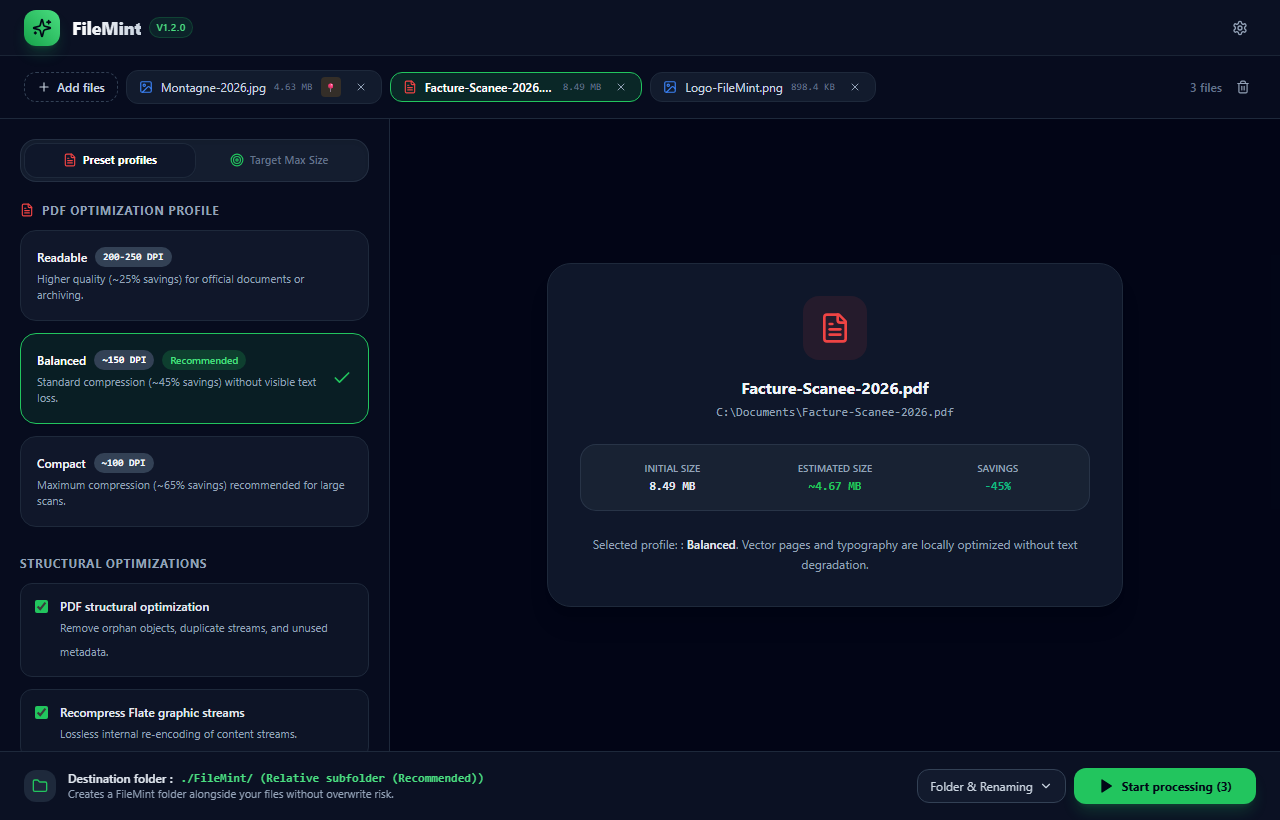
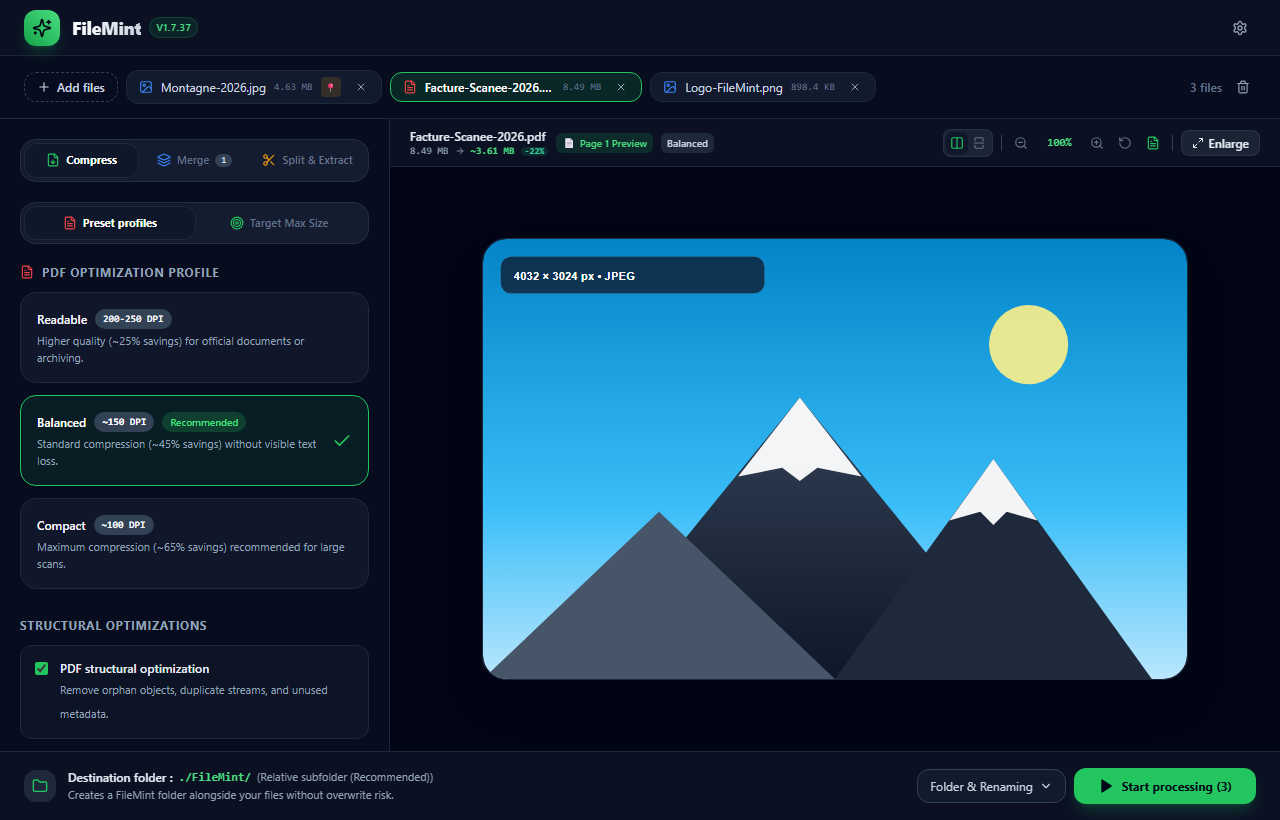
fix(codeql): fix unused assignment alerts, update screenshots and documentation (v1.7.37)

diff --git a/src/App.tsx b/src/App.tsx
@@ -59,7 +59,7 @@ export const App: React.FC = () => {
           }
         })
         .catch((err) => console.warn('Error reading initial CLI files:', err));
-    } else if (typeof window !== 'undefined' && import.meta.env.DEV) {
+    } else if (typeof window !== 'undefined') {
       const params = new URLSearchParams(window.location.search);
       const demo = params.get('demo');
       const langParam = params.get('lang');

diff --git a/src/components/DestinationPicker.tsx b/src/components/DestinationPicker.tsx
@@ -152,8 +152,8 @@ export const DestinationPicker: React.FC = () => {
   const pdfFiles = files.filter((f) => f.fileType === 'pdf');
 
   let canLaunch = false;
-  let launchButtonLabel = `${t.launchBatch} (${files.length})`;
-  let launchButtonIcon = Play;
+  let launchButtonLabel: string;
+  let launchButtonIcon: typeof Play;
 
   if (isPdfActive && pdfToolMode === 'merge') {
     canLaunch = pdfFiles.length >= 2;

diff --git a/README.fr.md b/README.fr.md
@@ -54,16 +54,20 @@
 ## 🚀 Fonctionnalités Clés
 
 ### 🖼 Optimisation & Conversion d'Images
-- **Dimensions & Retouche :** Pixels, pourcentages, limitation maximale (*Max bounds*), rotations (90°/180°/270°), miroirs et noir & blanc.
+- **Dimensions & Géométrie Intelligente :** Pixels, pourcentages, limitation maximale (*Max bounds*) avec synchronisation du ratio, rotations (90°/180°/270°), miroirs et effets de couleur (Niveaux de gris, Sépia, Négatif / Inversé, Noir & Blanc pur seuillé). La détection sémantique reconnaît intelligemment 100% et les dimensions d'origine.
+- **Estimation Empirique en Direct :** Calcul en temps réel par encodage en mémoire sous Rust fournissant une prévision précise du poids (`~413.5 Ko [-58%]`) avec infobulle explicative au survol.
 - **Mode Taille Cible (Ko / Mo max) :** Fixez un plafond strict (200 Ko, 500 Ko, 1 Mo, 2 Mo, 5 Mo, sur-mesure). FileMint détermine la qualité optimale et le sous-échantillonnage Lanczos par dichotomie.
-- **Qualité & Sans perte :** Curseur 10–100, préréglages (Léger, Équilibré, Max), mode lossless (PNG/WebP), ou débrayage complet de la compression.
+- **Qualité & Sans perte :** Curseur 10–100, préréglages rapides (Aucun, Web, Qualité, Léger), mode sans perte (PNG/WebP), ou débrayage complet de la compression pour les conversions bit-à-bit.
+- **Profils Personnalisés (Import / Export) :** Sauvegardez vos propres préréglages, exportez-les au format JSON et importez-les d'une machine à l'autre.
 - **Vie privée & Métadonnées :** Suppression sélective des coordonnées GPS ou nettoyage EXIF intégral.
 - **Formats :** JPEG, PNG (avec transparence), WebP, AVIF, BMP, GIF et TIFF.
 
-### 📄 Compression de Documents PDF
+### 📄 Suite Complète PDF (Compression, Fusion, Découpage)
 - **3 Profils Dédiés :** *Lisible* (~200–250 DPI), *Équilibré* (~150 DPI) et *Compact* (~100 DPI).
 - **Compression par Taille Cible :** Respectez les limites de poids imposées par les portails administratifs et courriels.
-- **Optimisation Structurelle :** Recompression FlateDecode et nettoyage d'objets sans altérer les textes sélectionnables ni les liens.
+- **Optimisation Structurelle :** Recompression FlateDecode et nettoyage d'objets sans altérer les textes sélectionnables ni les liens vectoriels.
+- **Fusion de PDF :** Combinez plusieurs documents PDF en un fichier unique ordonné avec nommage personnalisé et décompte des pages en direct.
+- **Découpage & Extraction de Pages :** Grille visuelle de vignettes des pages, sélection par plages (ex: `1, 3-5`), extraction dans un PDF dédié ou découpage de toutes les pages en fichiers distincts.
 
 ### 📂 Dossiers de Surveillance Automatique
 - **Surveillance Multi-Dossiers :** Configurez autant de dossiers surveillés que vous le souhaitez, avec exécution asynchrone indépendante en arrière-plan.

diff --git a/README.md b/README.md
@@ -54,16 +54,20 @@
 ## 🚀 Key Features
 
 ### 🖼 Image Optimization & Conversion
-- **Smart Sizing & Effects:** Pixel dimensions, percentages, max bounds, rotation (90°/180°/270°), flips, and color effects (Grayscale, Sepia, Invert, Pure B&W thresholding).
+- **Smart Sizing & Semantic Geometry:** Pixel dimensions, percentages, max bounds with aspect ratio sync, rotations (90°/180°/270°), flips, and color effects (Grayscale, Sepia, Invert, Pure B&W thresholding). Intelligent semantic detection recognizes 100% and matching original dimensions as non-resizing.
+- **Live Empirical Weight Estimation:** Real-time in-memory encoding in Rust provides responsive, empirical size forecasts (`~413.5 KB [-58%]`) with informative hover tooltips.
 - **Target Size Mode (Max KB/MB):** Set a strict file ceiling (200 KB, 500 KB, 1 MB, 2 MB, 5 MB, or custom). FileMint automatically determines optimal quality and Lanczos downscaling via binary search.
-- **Quality & Lossless:** Continuous slider (10–100), quick presets (Light, Balanced, Max), lossless PNG/WebP, or bypass compression toggle for bit-exact conversions.
+- **Quality & Lossless:** Continuous slider (10–100), quick presets (None, Web, Quality, Light), lossless PNG/WebP, or bypass compression toggle for bit-exact conversions.
+- **Custom Profiles (Import / Export):** Save personal workflows, export presets to JSON, and import them across machines.
 - **Privacy Sanitization:** Selective GPS stripping (keeps camera settings) or complete EXIF scrub.
 - **Formats:** JPEG, PNG (with alpha), WebP, AVIF, BMP, GIF, and TIFF.
 
-### 📄 PDF Document Compression
+### 📄 Comprehensive PDF Suite (Compress, Merge, Split)
 - **3 Compression Profiles:** *Readable* (~200–250 DPI), *Balanced* (~150 DPI), and *Compact* (~100 DPI).
 - **Target Size Optimization:** Fit PDFs under upload thresholds for government or career portals.
-- **Structural Optimization:** FlateDecode recompression and object cleanup without altering selectable text or links.
+- **Structural Optimization:** FlateDecode recompression and object cleanup without altering selectable text or vector typography.
+- **PDF Merge:** Merge multiple PDF files into a single ordered document with custom naming and real-time page count.
+- **PDF Split & Page Extraction:** Visual interactive page thumbnail grid, custom page ranges (e.g. `1, 3-5`), and one-click split-all or single-document extraction.
 
 ### 📂 Automatic Watch Folders
 - **Multi-Folder Background Monitoring:** Configure unlimited watched folders running concurrently in the background.

diff --git a/CONTRIBUTING.md b/CONTRIBUTING.md
@@ -58,6 +58,15 @@ Before submitting a pull request, ensure all checks pass:
    ```bash
    cargo fmt --manifest-path src-tauri/Cargo.toml -- --check
    ```
+5. **CodeQL & Security Standards**:
+   All JavaScript/TypeScript code is statically analyzed by GitHub CodeQL (`security-extended`, `security-and-quality`). Avoid useless variable assignments, uncontained path operations, or unsanitized DOM manipulations.
+
+6. **Documentation & Screenshots**:
+   When introducing UI changes, capture fresh screenshots for documentation using:
+   ```bash
+   npm run build
+   node scripts/capture_screenshots.cjs
+   ```
 
 ---
 
